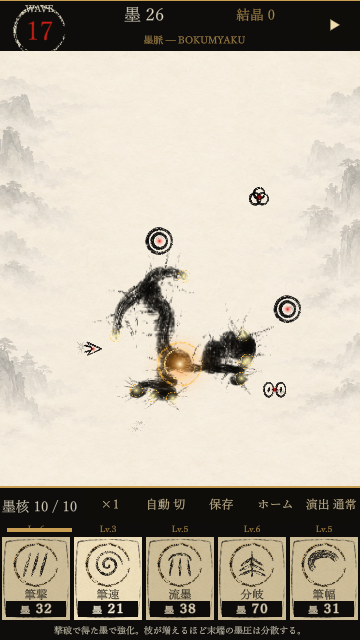
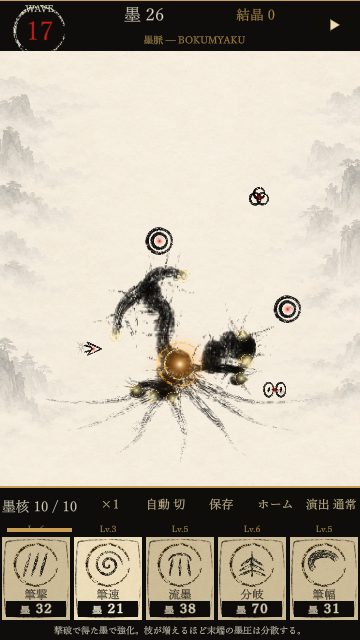
Anchor the ink core with tapered procedural roots

Changed region(s): [[0.2444, 0.5625, 0.7028, 0.6875]]

diff --git a/UnitySandbox/Assets/BokumyakuPrototype/Presentation/BokumyakuGame.BranchFibers.cs b/UnitySandbox/Assets/BokumyakuPrototype/Presentation/BokumyakuGame.BranchFibers.cs
@@ -4,6 +4,28 @@ namespace Bokumyaku.Presentation
 {
  public sealed partial class BokumyakuGame
  {
+  // Root flourishes belong to the paper, not the simulation: no attack tips or gold nodes.
+  void DrawRootFlourishes()
+  {
+   float sx=canvas.width/384f,sy=canvas.height/512f;
+   for(int i=0;i<7;i++)
+   {
+    float angle=Mathf.Lerp(-1.25f,1.25f,i/6f);
+    var start=new Vector2(192,256);
+    var end=start+new Vector2(Mathf.Sin(angle)*172,-Mathf.Cos(angle)*210);
+    var control=start+new Vector2(Mathf.Sin(angle)*45,-115);
+    var brush=InkBrushSettings.Dense;brush.radius=13;brush.pigment=.8f;brush.water=.12f;brush.roughness=.65f;brush.depletion=.003f;
+    persistentInk.Begin(new InkPoint(start.x*sx,start.y*sy,0,.9f),brush,unchecked(Run.Seed+i*487));
+    for(int n=1;n<=32;n++)
+    {
+     float t=n/32f;var p=(1-t)*(1-t)*start+2*(1-t)*t*control+t*t*end;
+     p.x+=Mathf.Sin(t*Mathf.PI*2+i)*Mathf.Sin(t*Mathf.PI)*7;
+     persistentInk.Move(new InkPoint(p.x*sx,p.y*sy,t*.6f,Mathf.Lerp(.9f,.025f,t)));
+    }
+    persistentInk.End();
+   }
+   persistentInk.Flush();
+  }
   // Decorative brush fibers only: no extra attack nodes or gameplay branches.
   void DrawBranchFibers(float x0,float y0,float x1,float y1,float sx,float sy,int id)
   {
@@ -24,5 +46,7 @@ namespace Bokumyaku.Presentation
   }
  }
 }
+
+
 
 

diff --git a/UnitySandbox/Assets/BokumyakuPrototype/Presentation/BokumyakuGame.cs b/UnitySandbox/Assets/BokumyakuPrototype/Presentation/BokumyakuGame.cs
@@ -247,6 +247,7 @@ namespace Bokumyaku.Presentation
             drawnBranches = 0; inkBursts.Clear(); watchedEnemies.Clear(); ObservedInkBursts = 0; flashes.Clear(); growth.Clear(); persistentInk.Clear();battleWorld.Reset(Run);
             Array.Clear(observedLevels, 0, observedLevels.Length);
             Array.Clear(levelChangedAt, 0, levelChangedAt.Length);
+            DrawRootFlourishes();
             DrawNewBranches();
         }
         public bool ResumeRun()
@@ -907,5 +908,6 @@ namespace Bokumyaku.Presentation
         }
     }
 }
+
 
 

diff --git a/docs/STATE.md b/docs/STATE.md
@@ -9,6 +9,7 @@
 - Runtime/シミュレーション/経済/保存は未変更。研究価格500案はstashに保護。長期曲線凍結・分割計画のみを維持。
 
 ## 直近の結果
+- 核から下へ7本のSUMI装飾根を追加。攻撃点/金輪なし。Wave17画面確認、全面再構築0。初稿の上下逆を修正。検証区分: コンパイル/隔離画面。
 - 紙札を明るい和紙/墨記号/黒い価格欄へ変更。SUMI筆枠・金円相・価格17pt、核の白中心/二重金輪・枝先輪を追加。uGUIの5札購入と不足拒否6/6、隔離試験残高を使用。card-art-wave17.pngを目視確認。検証区分: UI限定確認。
 - 枝の太さ・法線方向の湾曲・装飾小枝を改善。同seed42/Wave17の隔離Playで画面確認、branch-art-wave17.png。今回の追加検証はコンパイル/画面のみ。性能数値は直前の描画移行版の測定。
 - 検証区分: 限定検証（関連EditMode、PC隔離Play、前後計測/画面）。実機・新Windowsビルドは未実施。
@@ -21,6 +22,7 @@
 1. 添付WAVE37を美術目標に、余白の多い構図を優先改善し、太く広がる根元と枝、敵の迫力を整える。現在の画面は目標に未達。
 2. 実機タップ/ノッチ、日本語フォント/CopyTexture対応、初回シェーダー待機を確認。撃破跡は周回内表示のみで保存しない。
 3. 音の聴感と初週バランスは描画の後。商品完成条件はPRODUCT_COMPLETION.md。
+
 
 
 

diff --git a/docs/RENDER_REFRESH.md b/docs/RENDER_REFRESH.md
@@ -31,3 +31,6 @@ SUMIで枝・撃破跡を描き、32pxタイル単位でCPU変換とGPU CopyText
 
 ### 金の核と筆縁
 核に白い中心/二重の金輪、枝先に金輪を追加。札は既存円相から9-slice筆縁と金の外輪を構成し価格を17ptへ。Wave17画面を更新、追加装飾のraycast遮蔽なし（購入/不足6項目合格）。コンパイル/画面/操作の限定検証。画面構図の余白と参考の樹形の差は残る。
+
+### 紙面へ張る根
+ResetInk時に一度だけ7本の先細りの根をSUMI描画。攻撃枝/判定/経済への追加なし、装飾根には金の攻撃点なし。初稿の紙座標上下の誤りを実画面で修正し、下方向へ配置。Wave17画像を更新、全面再構築0。性能再計測ではない。
